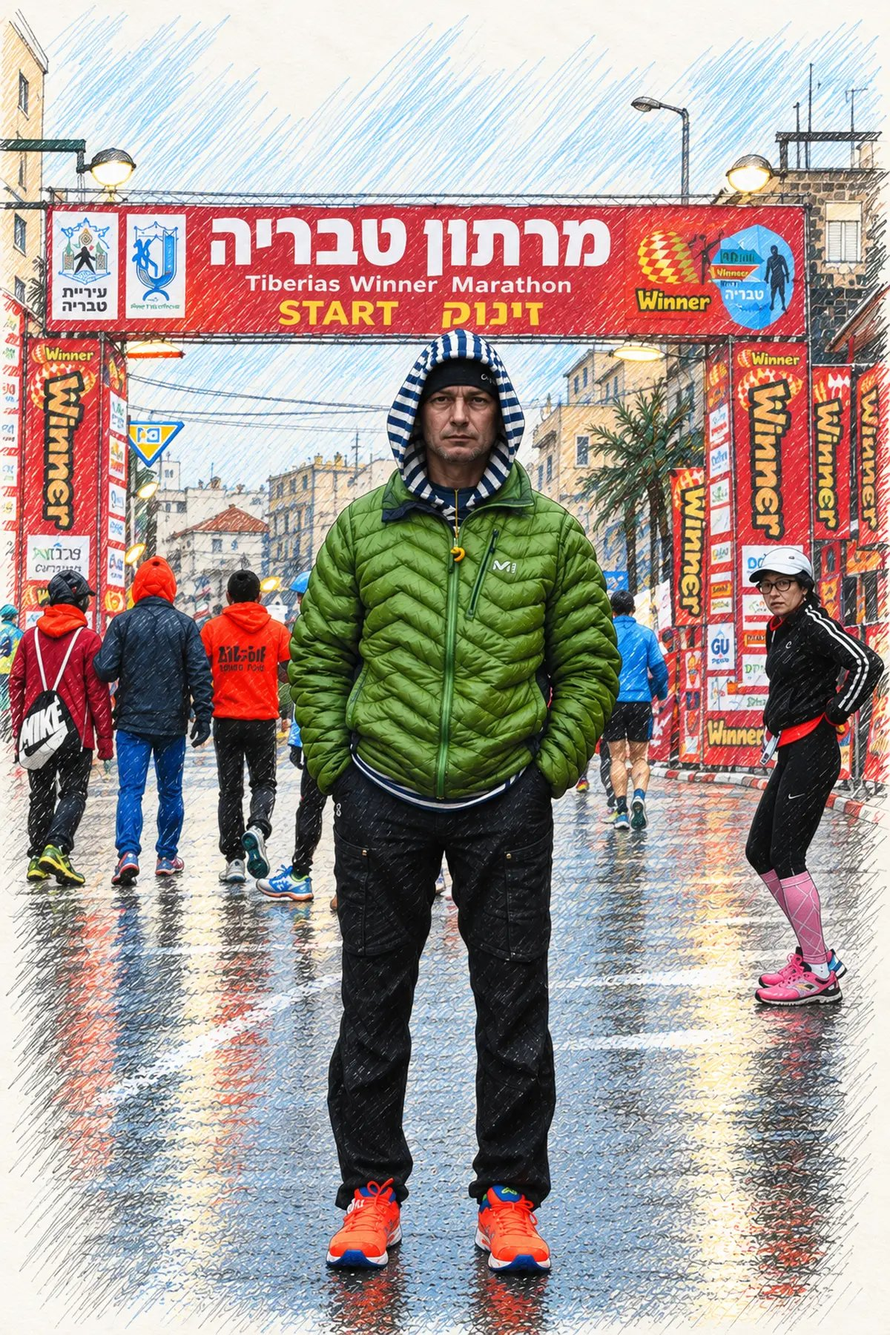
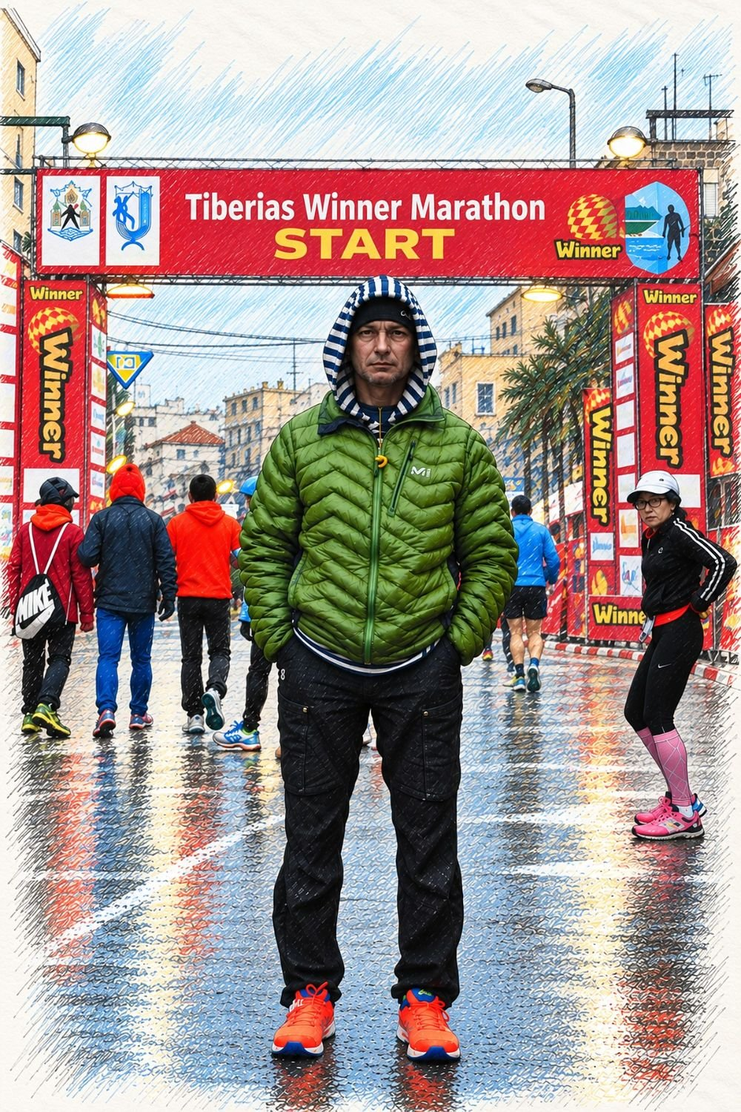
Иллюстрация Тверии без искажённого иврита, 1000×1500 и 600 px
Claude-Session: https://claude.ai/code/session_017Vh8WSDHrDE5J2gaAnBWqh

diff --git a/book-site/index.html b/book-site/index.html
@@ -80,9 +80,9 @@
     <div class="split">
       <div class="start__big">
         <img class="start__img" src="assets/img/tiberias-2015.jpg"
-             srcset="assets/img/tiberias-2015-600.jpg 600w, assets/img/tiberias-2015.jpg 1200w"
+             srcset="assets/img/tiberias-2015-600.jpg 600w, assets/img/tiberias-2015.jpg 1000w"
              sizes="(max-width: 700px) 100vw, 33vw"
-             width="1200" height="1800" loading="lazy"
+             width="1000" height="1500" loading="lazy"
              alt="Юрий Строфилов у арки старта марафона в Тверии, 9 января 2015 года, иллюстрация">
         <div class="start__num">3:09</div>
         <p class="start__place">Тверия, 9 января 2015, перед стартом</p>
